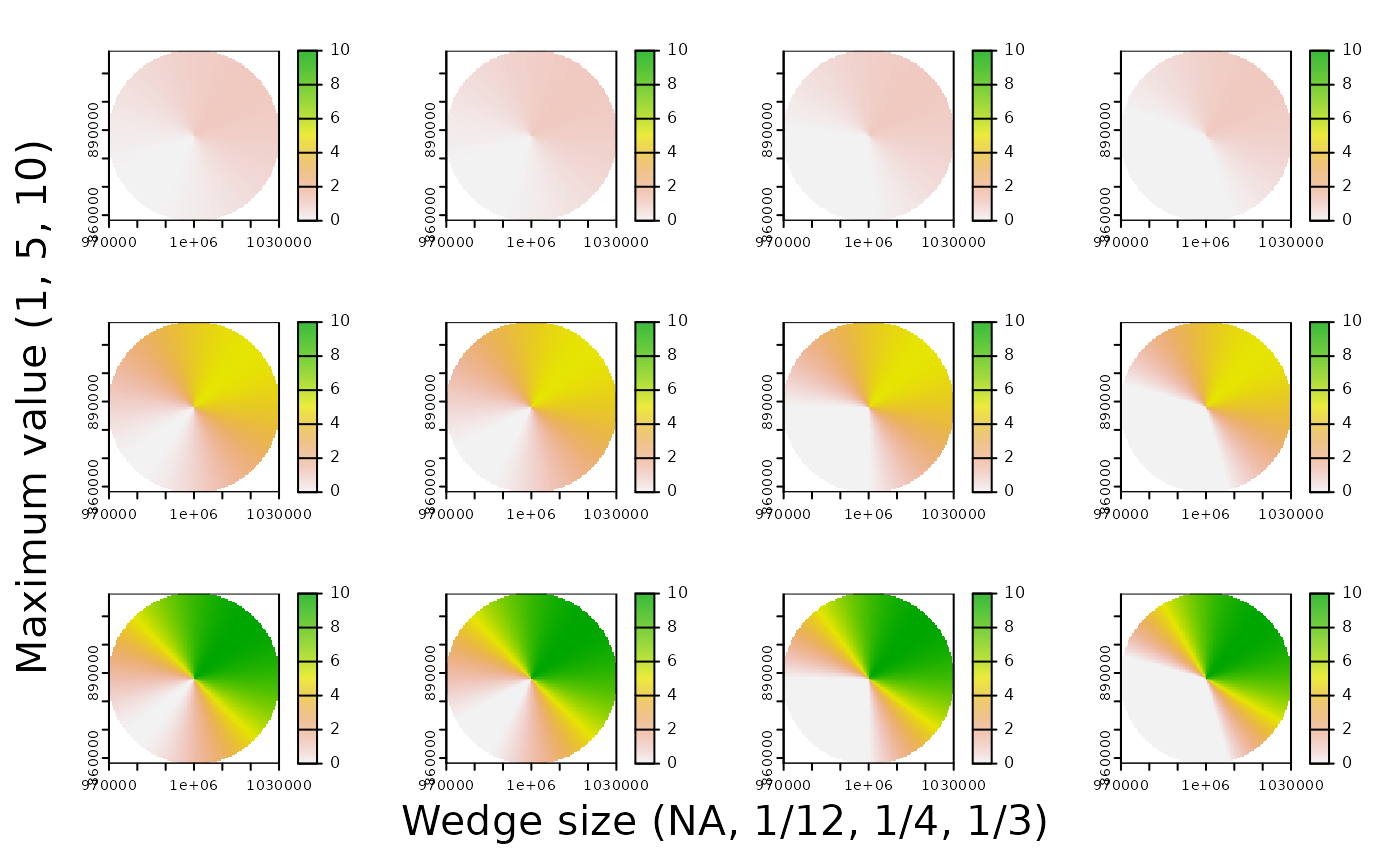
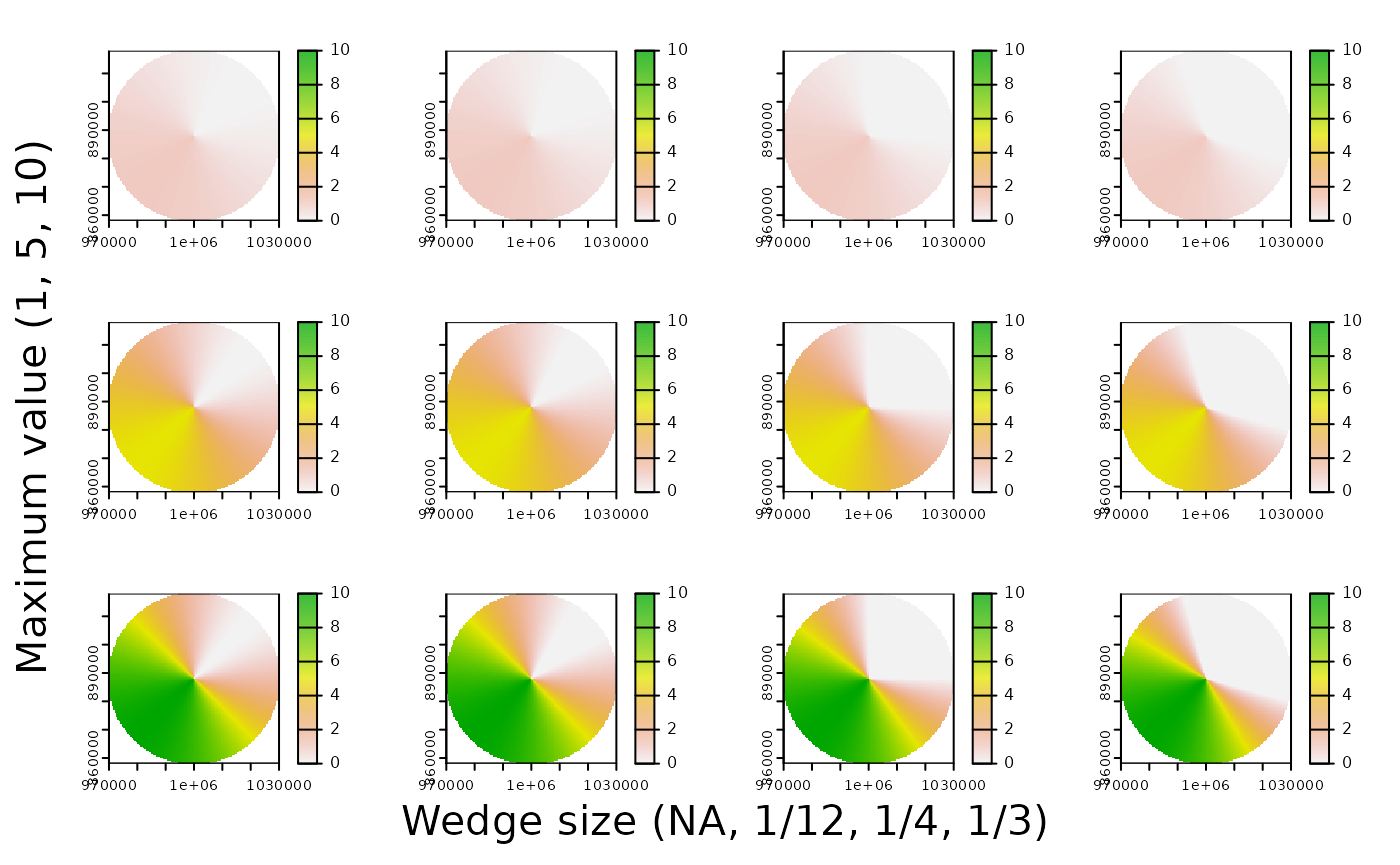
Built site for MAMU: 0.2.0@006dbc3

diff --git a/articles/radar_cones.html b/articles/radar_cones.html
@@ -131,7 +131,49 @@ may be flying. For a given (x,y) spatial point, heading, and radius,
 <span>                       heading <span class="op">=</span> <span class="va">heading</span>,</span>
 <span>                       invert <span class="op">=</span> <span class="cn">TRUE</span>,</span>
 <span>                       maxvalue <span class="op">=</span> <span class="va">max_values</span><span class="op">[[</span><span class="fl">3</span><span class="op">]</span><span class="op">]</span><span class="op">)</span><span class="op">)</span></span></code></pre></div>
+<div class="sourceCode" id="cb2"><pre class="downlit sourceCode r">
+<code class="sourceCode R"><span><span class="fu"><a href="https://rdrr.io/r/graphics/par.html" class="external-link">par</a></span><span class="op">(</span>mfrow <span class="op">=</span> <span class="fu"><a href="https://rdrr.io/r/base/c.html" class="external-link">c</a></span><span class="op">(</span><span class="fl">3</span>, <span class="fl">4</span><span class="op">)</span>, oma<span class="op">=</span><span class="fu"><a href="https://rdrr.io/r/base/c.html" class="external-link">c</a></span><span class="op">(</span><span class="fl">2</span>,<span class="fl">2</span>,<span class="fl">0</span>,<span class="fl">0</span><span class="op">)</span><span class="op">)</span></span>
+<span></span>
+<span><span class="op">{</span></span>
+<span><span class="fu">terra</span><span class="fu">::</span><span class="fu"><a href="https://rspatial.github.io/terra/reference/plot.html" class="external-link">plot</a></span><span class="op">(</span><span class="va">cones_max1</span><span class="op">[[</span><span class="fl">1</span><span class="op">]</span><span class="op">]</span>, range <span class="op">=</span> <span class="fu"><a href="https://rdrr.io/r/base/c.html" class="external-link">c</a></span><span class="op">(</span><span class="fl">0</span>,<span class="fu"><a href="https://rdrr.io/r/base/rev.html" class="external-link">rev</a></span><span class="op">(</span><span class="va">max_values</span><span class="op">)</span><span class="op">[</span><span class="fl">1</span><span class="op">]</span><span class="op">)</span><span class="op">)</span> <span class="co"># max value 1; theta = 0</span></span>
+<span><span class="fu">terra</span><span class="fu">::</span><span class="fu"><a href="https://rspatial.github.io/terra/reference/plot.html" class="external-link">plot</a></span><span class="op">(</span><span class="va">cones_max1</span><span class="op">[[</span><span class="fl">2</span><span class="op">]</span><span class="op">]</span>, range <span class="op">=</span> <span class="fu"><a href="https://rdrr.io/r/base/c.html" class="external-link">c</a></span><span class="op">(</span><span class="fl">0</span>,<span class="fu"><a href="https://rdrr.io/r/base/rev.html" class="external-link">rev</a></span><span class="op">(</span><span class="va">max_values</span><span class="op">)</span><span class="op">[</span><span class="fl">1</span><span class="op">]</span><span class="op">)</span><span class="op">)</span> <span class="co"># max value 1; theta = 30°</span></span>
+<span><span class="fu">terra</span><span class="fu">::</span><span class="fu"><a href="https://rspatial.github.io/terra/reference/plot.html" class="external-link">plot</a></span><span class="op">(</span><span class="va">cones_max1</span><span class="op">[[</span><span class="fl">3</span><span class="op">]</span><span class="op">]</span>, range <span class="op">=</span> <span class="fu"><a href="https://rdrr.io/r/base/c.html" class="external-link">c</a></span><span class="op">(</span><span class="fl">0</span>,<span class="fu"><a href="https://rdrr.io/r/base/rev.html" class="external-link">rev</a></span><span class="op">(</span><span class="va">max_values</span><span class="op">)</span><span class="op">[</span><span class="fl">1</span><span class="op">]</span><span class="op">)</span><span class="op">)</span> <span class="co"># max value 1; theta = 90°</span></span>
+<span><span class="fu">terra</span><span class="fu">::</span><span class="fu"><a href="https://rspatial.github.io/terra/reference/plot.html" class="external-link">plot</a></span><span class="op">(</span><span class="va">cones_max1</span><span class="op">[[</span><span class="fl">4</span><span class="op">]</span><span class="op">]</span>, range <span class="op">=</span> <span class="fu"><a href="https://rdrr.io/r/base/c.html" class="external-link">c</a></span><span class="op">(</span><span class="fl">0</span>,<span class="fu"><a href="https://rdrr.io/r/base/rev.html" class="external-link">rev</a></span><span class="op">(</span><span class="va">max_values</span><span class="op">)</span><span class="op">[</span><span class="fl">1</span><span class="op">]</span><span class="op">)</span><span class="op">)</span> <span class="co"># max value 1; theta = 120°</span></span>
+<span></span>
+<span><span class="fu">terra</span><span class="fu">::</span><span class="fu"><a href="https://rspatial.github.io/terra/reference/plot.html" class="external-link">plot</a></span><span class="op">(</span><span class="va">cones_max5</span><span class="op">[[</span><span class="fl">1</span><span class="op">]</span><span class="op">]</span>, range <span class="op">=</span> <span class="fu"><a href="https://rdrr.io/r/base/c.html" class="external-link">c</a></span><span class="op">(</span><span class="fl">0</span>,<span class="fu"><a href="https://rdrr.io/r/base/rev.html" class="external-link">rev</a></span><span class="op">(</span><span class="va">max_values</span><span class="op">)</span><span class="op">[</span><span class="fl">1</span><span class="op">]</span><span class="op">)</span><span class="op">)</span> <span class="co"># max value 5; theta = 0</span></span>
+<span><span class="fu">terra</span><span class="fu">::</span><span class="fu"><a href="https://rspatial.github.io/terra/reference/plot.html" class="external-link">plot</a></span><span class="op">(</span><span class="va">cones_max5</span><span class="op">[[</span><span class="fl">2</span><span class="op">]</span><span class="op">]</span>, range <span class="op">=</span> <span class="fu"><a href="https://rdrr.io/r/base/c.html" class="external-link">c</a></span><span class="op">(</span><span class="fl">0</span>,<span class="fu"><a href="https://rdrr.io/r/base/rev.html" class="external-link">rev</a></span><span class="op">(</span><span class="va">max_values</span><span class="op">)</span><span class="op">[</span><span class="fl">1</span><span class="op">]</span><span class="op">)</span><span class="op">)</span> <span class="co"># max value 5; theta = 30°</span></span>
+<span><span class="fu">terra</span><span class="fu">::</span><span class="fu"><a href="https://rspatial.github.io/terra/reference/plot.html" class="external-link">plot</a></span><span class="op">(</span><span class="va">cones_max5</span><span class="op">[[</span><span class="fl">3</span><span class="op">]</span><span class="op">]</span>, range <span class="op">=</span> <span class="fu"><a href="https://rdrr.io/r/base/c.html" class="external-link">c</a></span><span class="op">(</span><span class="fl">0</span>,<span class="fu"><a href="https://rdrr.io/r/base/rev.html" class="external-link">rev</a></span><span class="op">(</span><span class="va">max_values</span><span class="op">)</span><span class="op">[</span><span class="fl">1</span><span class="op">]</span><span class="op">)</span><span class="op">)</span> <span class="co"># max value 5; theta = 90°</span></span>
+<span><span class="fu">terra</span><span class="fu">::</span><span class="fu"><a href="https://rspatial.github.io/terra/reference/plot.html" class="external-link">plot</a></span><span class="op">(</span><span class="va">cones_max5</span><span class="op">[[</span><span class="fl">4</span><span class="op">]</span><span class="op">]</span>, range <span class="op">=</span> <span class="fu"><a href="https://rdrr.io/r/base/c.html" class="external-link">c</a></span><span class="op">(</span><span class="fl">0</span>,<span class="fu"><a href="https://rdrr.io/r/base/rev.html" class="external-link">rev</a></span><span class="op">(</span><span class="va">max_values</span><span class="op">)</span><span class="op">[</span><span class="fl">1</span><span class="op">]</span><span class="op">)</span><span class="op">)</span> <span class="co"># max value 5; theta = 120°</span></span>
+<span></span>
+<span><span class="fu">terra</span><span class="fu">::</span><span class="fu"><a href="https://rspatial.github.io/terra/reference/plot.html" class="external-link">plot</a></span><span class="op">(</span><span class="va">cones_max10</span><span class="op">[[</span><span class="fl">1</span><span class="op">]</span><span class="op">]</span>, range <span class="op">=</span> <span class="fu"><a href="https://rdrr.io/r/base/c.html" class="external-link">c</a></span><span class="op">(</span><span class="fl">0</span>,<span class="fu"><a href="https://rdrr.io/r/base/rev.html" class="external-link">rev</a></span><span class="op">(</span><span class="va">max_values</span><span class="op">)</span><span class="op">[</span><span class="fl">1</span><span class="op">]</span><span class="op">)</span><span class="op">)</span> <span class="co"># max value 10; theta = 0</span></span>
+<span><span class="fu">terra</span><span class="fu">::</span><span class="fu"><a href="https://rspatial.github.io/terra/reference/plot.html" class="external-link">plot</a></span><span class="op">(</span><span class="va">cones_max10</span><span class="op">[[</span><span class="fl">2</span><span class="op">]</span><span class="op">]</span>, range <span class="op">=</span> <span class="fu"><a href="https://rdrr.io/r/base/c.html" class="external-link">c</a></span><span class="op">(</span><span class="fl">0</span>,<span class="fu"><a href="https://rdrr.io/r/base/rev.html" class="external-link">rev</a></span><span class="op">(</span><span class="va">max_values</span><span class="op">)</span><span class="op">[</span><span class="fl">1</span><span class="op">]</span><span class="op">)</span><span class="op">)</span> <span class="co"># max value 10; theta = 30°</span></span>
+<span><span class="fu">terra</span><span class="fu">::</span><span class="fu"><a href="https://rspatial.github.io/terra/reference/plot.html" class="external-link">plot</a></span><span class="op">(</span><span class="va">cones_max10</span><span class="op">[[</span><span class="fl">3</span><span class="op">]</span><span class="op">]</span>, range <span class="op">=</span> <span class="fu"><a href="https://rdrr.io/r/base/c.html" class="external-link">c</a></span><span class="op">(</span><span class="fl">0</span>,<span class="fu"><a href="https://rdrr.io/r/base/rev.html" class="external-link">rev</a></span><span class="op">(</span><span class="va">max_values</span><span class="op">)</span><span class="op">[</span><span class="fl">1</span><span class="op">]</span><span class="op">)</span><span class="op">)</span> <span class="co"># max value 10; theta = 90°</span></span>
+<span><span class="fu">terra</span><span class="fu">::</span><span class="fu"><a href="https://rspatial.github.io/terra/reference/plot.html" class="external-link">plot</a></span><span class="op">(</span><span class="va">cones_max10</span><span class="op">[[</span><span class="fl">4</span><span class="op">]</span><span class="op">]</span>, range <span class="op">=</span> <span class="fu"><a href="https://rdrr.io/r/base/c.html" class="external-link">c</a></span><span class="op">(</span><span class="fl">0</span>,<span class="fu"><a href="https://rdrr.io/r/base/rev.html" class="external-link">rev</a></span><span class="op">(</span><span class="va">max_values</span><span class="op">)</span><span class="op">[</span><span class="fl">1</span><span class="op">]</span><span class="op">)</span><span class="op">)</span> <span class="co"># max value 10; theta = 120°</span></span>
+<span><span class="op">}</span></span>
+<span></span>
+<span><span class="fu"><a href="https://rdrr.io/r/graphics/mtext.html" class="external-link">mtext</a></span><span class="op">(</span><span class="st">"Maximum value (1, 5, 10)"</span>,side<span class="op">=</span><span class="fl">2</span>,line<span class="op">=</span><span class="fl">0</span>,outer<span class="op">=</span><span class="cn">TRUE</span>,cex<span class="op">=</span><span class="fl">1.3</span><span class="op">)</span></span>
+<span><span class="fu"><a href="https://rdrr.io/r/graphics/mtext.html" class="external-link">mtext</a></span><span class="op">(</span><span class="st">"Wedge size (NA, 1/12, 1/4, 1/3)"</span>,side<span class="op">=</span><span class="fl">1</span>,line<span class="op">=</span><span class="fl">0</span>,outer<span class="op">=</span><span class="cn">TRUE</span>,cex<span class="op">=</span><span class="fl">1.3</span>,las<span class="op">=</span><span class="fl">0</span><span class="op">)</span></span></code></pre></div>
 <p><img src="radar_cones_files/figure-html/initial%20cones-1.png" width="700"></p>
+<div class="sourceCode" id="cb3"><pre class="downlit sourceCode r">
+<code class="sourceCode R"><span><span class="fu"><a href="https://rdrr.io/r/graphics/par.html" class="external-link">par</a></span><span class="op">(</span>mfrow <span class="op">=</span> <span class="fu"><a href="https://rdrr.io/r/base/c.html" class="external-link">c</a></span><span class="op">(</span><span class="fl">3</span>, <span class="fl">4</span><span class="op">)</span>, oma<span class="op">=</span><span class="fu"><a href="https://rdrr.io/r/base/c.html" class="external-link">c</a></span><span class="op">(</span><span class="fl">2</span>,<span class="fl">2</span>,<span class="fl">0</span>,<span class="fl">0</span><span class="op">)</span><span class="op">)</span></span>
+<span></span>
+<span><span class="fu">terra</span><span class="fu">::</span><span class="fu"><a href="https://rspatial.github.io/terra/reference/plot.html" class="external-link">plot</a></span><span class="op">(</span><span class="va">cones_max1</span><span class="op">[[</span><span class="fl">1</span><span class="op">]</span><span class="op">]</span> <span class="op">==</span> <span class="fl">0</span><span class="op">)</span> <span class="co"># max value 1; theta = 0</span></span>
+<span><span class="fu">terra</span><span class="fu">::</span><span class="fu"><a href="https://rspatial.github.io/terra/reference/plot.html" class="external-link">plot</a></span><span class="op">(</span><span class="va">cones_max1</span><span class="op">[[</span><span class="fl">2</span><span class="op">]</span><span class="op">]</span> <span class="op">==</span> <span class="fl">0</span><span class="op">)</span> <span class="co"># max value 1; theta = 30°</span></span>
+<span><span class="fu">terra</span><span class="fu">::</span><span class="fu"><a href="https://rspatial.github.io/terra/reference/plot.html" class="external-link">plot</a></span><span class="op">(</span><span class="va">cones_max1</span><span class="op">[[</span><span class="fl">3</span><span class="op">]</span><span class="op">]</span> <span class="op">==</span> <span class="fl">0</span><span class="op">)</span> <span class="co"># max value 1; theta = 90°</span></span>
+<span><span class="fu">terra</span><span class="fu">::</span><span class="fu"><a href="https://rspatial.github.io/terra/reference/plot.html" class="external-link">plot</a></span><span class="op">(</span><span class="va">cones_max1</span><span class="op">[[</span><span class="fl">4</span><span class="op">]</span><span class="op">]</span> <span class="op">==</span> <span class="fl">0</span><span class="op">)</span> <span class="co"># max value 1; theta = 120°</span></span>
+<span></span>
+<span><span class="fu">terra</span><span class="fu">::</span><span class="fu"><a href="https://rspatial.github.io/terra/reference/plot.html" class="external-link">plot</a></span><span class="op">(</span><span class="va">cones_max5</span><span class="op">[[</span><span class="fl">1</span><span class="op">]</span><span class="op">]</span> <span class="op">==</span> <span class="fl">0</span><span class="op">)</span> <span class="co"># max value 5; theta = 0</span></span>
+<span><span class="fu">terra</span><span class="fu">::</span><span class="fu"><a href="https://rspatial.github.io/terra/reference/plot.html" class="external-link">plot</a></span><span class="op">(</span><span class="va">cones_max5</span><span class="op">[[</span><span class="fl">2</span><span class="op">]</span><span class="op">]</span> <span class="op">==</span> <span class="fl">0</span><span class="op">)</span> <span class="co"># max value 5; theta = 30°</span></span>
+<span><span class="fu">terra</span><span class="fu">::</span><span class="fu"><a href="https://rspatial.github.io/terra/reference/plot.html" class="external-link">plot</a></span><span class="op">(</span><span class="va">cones_max5</span><span class="op">[[</span><span class="fl">3</span><span class="op">]</span><span class="op">]</span> <span class="op">==</span> <span class="fl">0</span><span class="op">)</span> <span class="co"># max value 5; theta = 90°</span></span>
+<span><span class="fu">terra</span><span class="fu">::</span><span class="fu"><a href="https://rspatial.github.io/terra/reference/plot.html" class="external-link">plot</a></span><span class="op">(</span><span class="va">cones_max5</span><span class="op">[[</span><span class="fl">4</span><span class="op">]</span><span class="op">]</span> <span class="op">==</span> <span class="fl">0</span><span class="op">)</span> <span class="co"># max value 5; theta = 120°</span></span>
+<span></span>
+<span><span class="fu">terra</span><span class="fu">::</span><span class="fu"><a href="https://rspatial.github.io/terra/reference/plot.html" class="external-link">plot</a></span><span class="op">(</span><span class="va">cones_max10</span><span class="op">[[</span><span class="fl">1</span><span class="op">]</span><span class="op">]</span> <span class="op">==</span> <span class="fl">0</span><span class="op">)</span> <span class="co"># max value 10; theta = 0</span></span>
+<span><span class="fu">terra</span><span class="fu">::</span><span class="fu"><a href="https://rspatial.github.io/terra/reference/plot.html" class="external-link">plot</a></span><span class="op">(</span><span class="va">cones_max10</span><span class="op">[[</span><span class="fl">2</span><span class="op">]</span><span class="op">]</span> <span class="op">==</span> <span class="fl">0</span><span class="op">)</span> <span class="co"># max value 10; theta = 30°</span></span>
+<span><span class="fu">terra</span><span class="fu">::</span><span class="fu"><a href="https://rspatial.github.io/terra/reference/plot.html" class="external-link">plot</a></span><span class="op">(</span><span class="va">cones_max10</span><span class="op">[[</span><span class="fl">3</span><span class="op">]</span><span class="op">]</span> <span class="op">==</span> <span class="fl">0</span><span class="op">)</span> <span class="co"># max value 10; theta = 90°</span></span>
+<span><span class="fu">terra</span><span class="fu">::</span><span class="fu"><a href="https://rspatial.github.io/terra/reference/plot.html" class="external-link">plot</a></span><span class="op">(</span><span class="va">cones_max10</span><span class="op">[[</span><span class="fl">4</span><span class="op">]</span><span class="op">]</span> <span class="op">==</span> <span class="fl">0</span><span class="op">)</span> <span class="co"># max value 10; theta = 120°</span></span>
+<span></span>
+<span><span class="fu"><a href="https://rdrr.io/r/graphics/mtext.html" class="external-link">mtext</a></span><span class="op">(</span><span class="st">"Maximum value (1, 5, 10)"</span>,side<span class="op">=</span><span class="fl">2</span>,line<span class="op">=</span><span class="fl">0</span>,outer<span class="op">=</span><span class="cn">TRUE</span>,cex<span class="op">=</span><span class="fl">1.3</span><span class="op">)</span></span>
+<span><span class="fu"><a href="https://rdrr.io/r/graphics/mtext.html" class="external-link">mtext</a></span><span class="op">(</span><span class="st">"Wedge size (NA, 1/12, 1/4, 1/3)"</span>,side<span class="op">=</span><span class="fl">1</span>,line<span class="op">=</span><span class="fl">0</span>,outer<span class="op">=</span><span class="cn">TRUE</span>,cex<span class="op">=</span><span class="fl">1.3</span>,las<span class="op">=</span><span class="fl">0</span><span class="op">)</span></span></code></pre></div>
 <p><img src="radar_cones_files/figure-html/wedge%20sizes-1.png" width="700"></p>
   </main>
 </div>

diff --git a/articles/BC_DEM.html b/articles/BC_DEM.html
@@ -97,8 +97,8 @@ download and the function will take care of everything else for you.</p>
 <p>The map tiles available for download correspond to the <a href="https://a100.gov.bc.ca/ext/mtec/public/products/mapsheet" class="external-link">BC Maps
 &amp; Orthos</a> tiles. At the moment, <code>BC_DEM</code> only supports
 downloading one map tile at a time.</p>
-<div class="figure">
-<img src="BC-map-tiles.png" style="width:50.0%" alt=""><p class="caption">BC map tiles available for download</p>
+<div class="float">
+<img src="BC-map-tiles.png" style="width:50.0%" alt="BC map tiles available for download"><div class="figcaption">BC map tiles available for download</div>
 </div>
 <div class="sourceCode" id="cb1"><pre class="downlit sourceCode r">
 <code class="sourceCode R"><span><span class="kw"><a href="https://rdrr.io/r/base/library.html" class="external-link">library</a></span><span class="op">(</span><span class="va"><a href="https://github.com/popovs/MAMU" class="external-link">MAMU</a></span><span class="op">)</span></span>
@@ -108,7 +108,7 @@ downloading one map tile at a time.</p>
 <span>              save_output <span class="op">=</span> <span class="cn">FALSE</span><span class="op">)</span></span>
 <span><span class="co">#&gt; Stitching together your DEM...</span></span>
 <span></span>
-<span><span class="fu">terra</span><span class="fu">::</span><span class="fu"><a href="https://rdrr.io/pkg/terra/man/plot.html" class="external-link">plot</a></span><span class="op">(</span><span class="va">dem</span><span class="op">)</span></span></code></pre></div>
+<span><span class="fu">terra</span><span class="fu">::</span><span class="fu"><a href="https://rspatial.github.io/terra/reference/plot.html" class="external-link">plot</a></span><span class="op">(</span><span class="va">dem</span><span class="op">)</span></span></code></pre></div>
 <p><img src="BC_DEM_files/figure-html/setup-1.png" width="700"></p>
 </div>
 </div>

diff --git a/authors.html b/authors.html
@@ -60,7 +60,7 @@
       <h2 id="citation">Citation</h2>
       <p><small class="dont-index">Source: <a href="https://github.com/popovs/MAMU/blob/HEAD/DESCRIPTION" class="external-link"><code>DESCRIPTION</code></a></small></p>
 
-      <p>Popov S (2023).
+      <p>Popov S (2024).
 <em>MAMU: Functions for BC Marbled Murrelet (MAMU) Forestry analyses</em>.
 R package version 0.2.0, 
 https://popovs.github.io/MAMU/, <a href="https://github.com/popovs/MAMU" class="external-link">https://github.com/popovs/MAMU</a>. 
@@ -68,7 +68,7 @@ https://popovs.github.io/MAMU/, <a href="https://github.com/popovs/MAMU" class="
       <pre>@Manual{,
   title = {MAMU: Functions for BC Marbled Murrelet (MAMU) Forestry analyses},
   author = {Sarah Popov},
-  year = {2023},
+  year = {2024},
   note = {R package version 0.2.0, 
 https://popovs.github.io/MAMU/},
   url = {https://github.com/popovs/MAMU},

diff --git a/reference/make_vrt.html b/reference/make_vrt.html
@@ -50,7 +50,7 @@
     </div>
 
     <div class="ref-description section level2">
-    <p>Create VRT from a list of DEM files. This function is a simple wrapper of the <code><a href="https://rdrr.io/pkg/terra/man/vrt.html" class="external-link">terra::vrt()</a></code> function.</p>
+    <p>Create VRT from a list of DEM files. This function is a simple wrapper of the <code><a href="https://rspatial.github.io/terra/reference/vrt.html" class="external-link">terra::vrt()</a></code> function.</p>
     </div>
 
     <div class="section level2">
